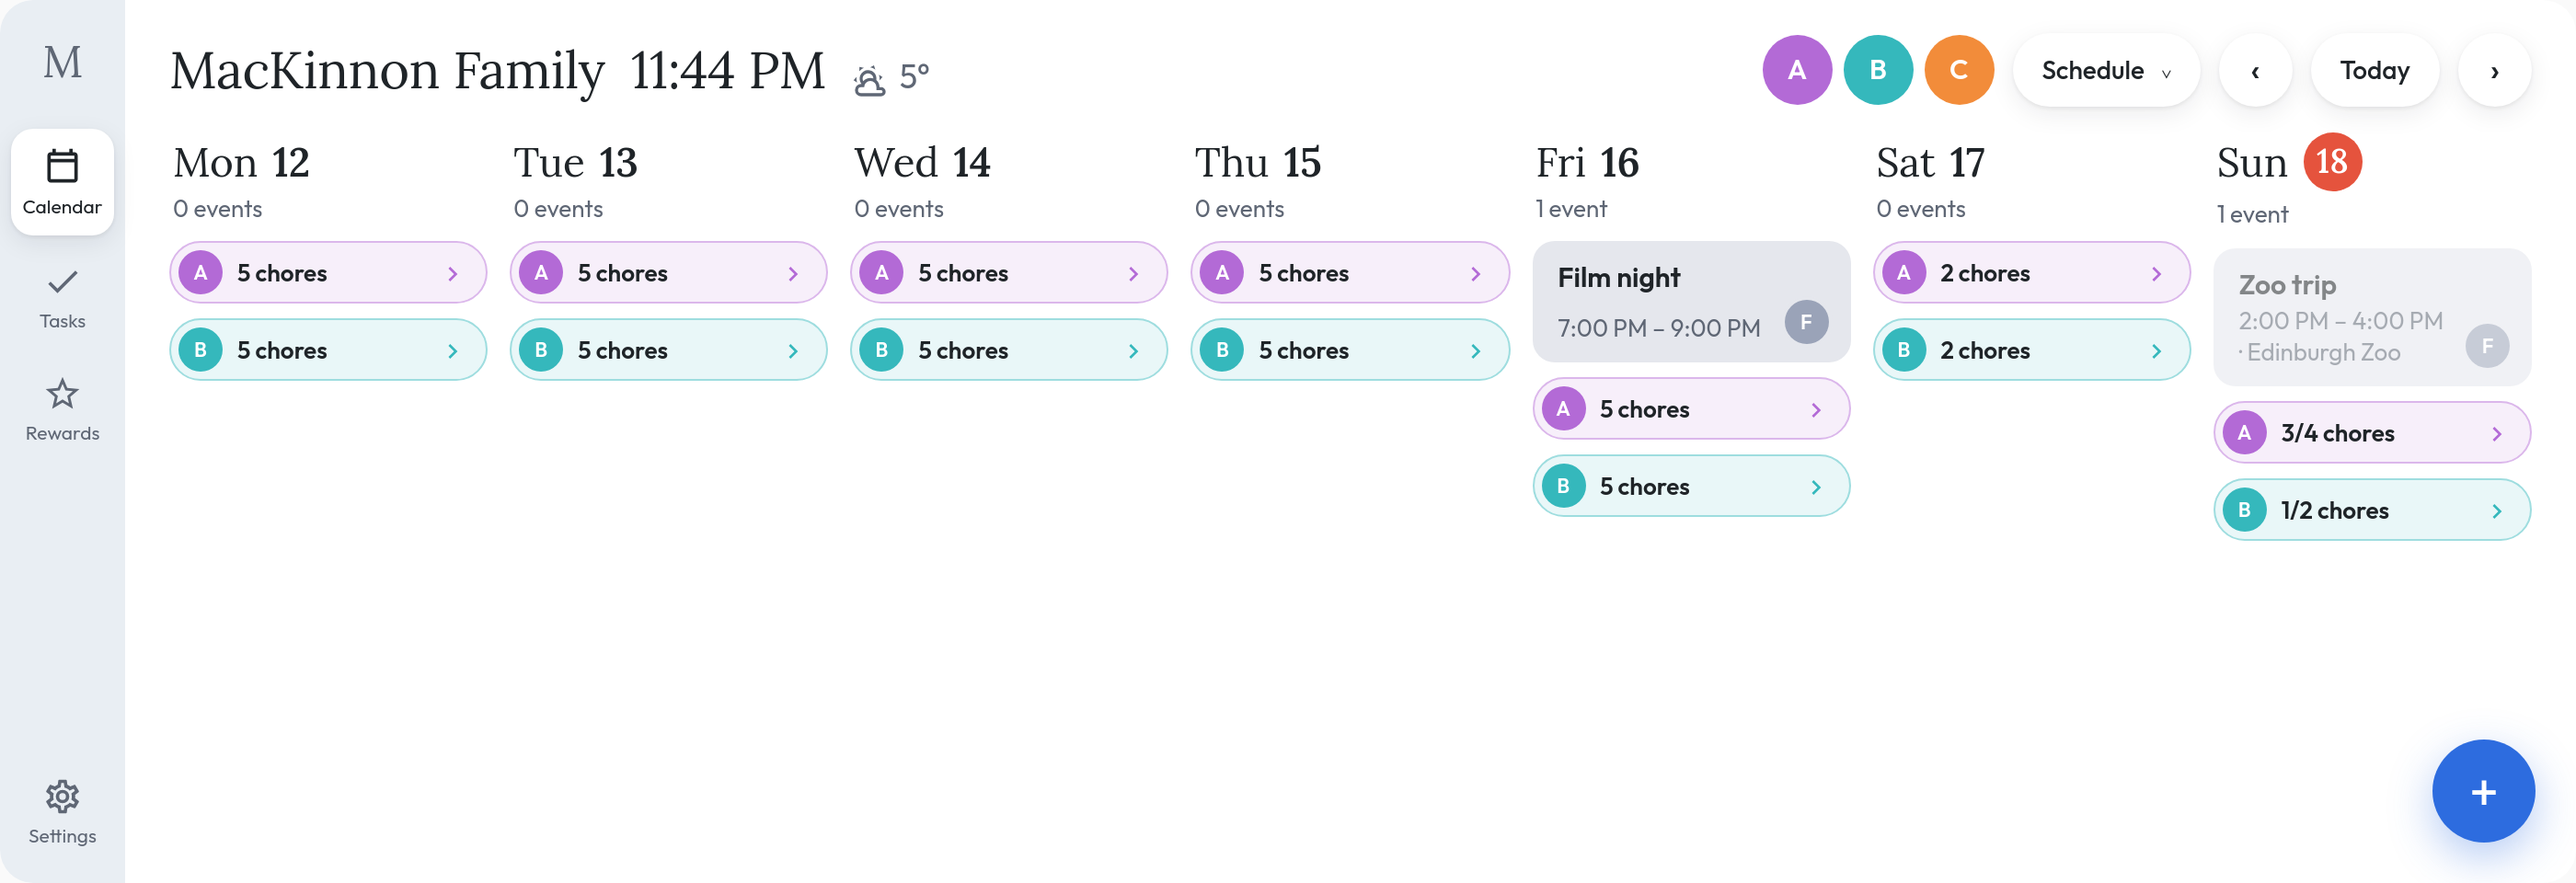
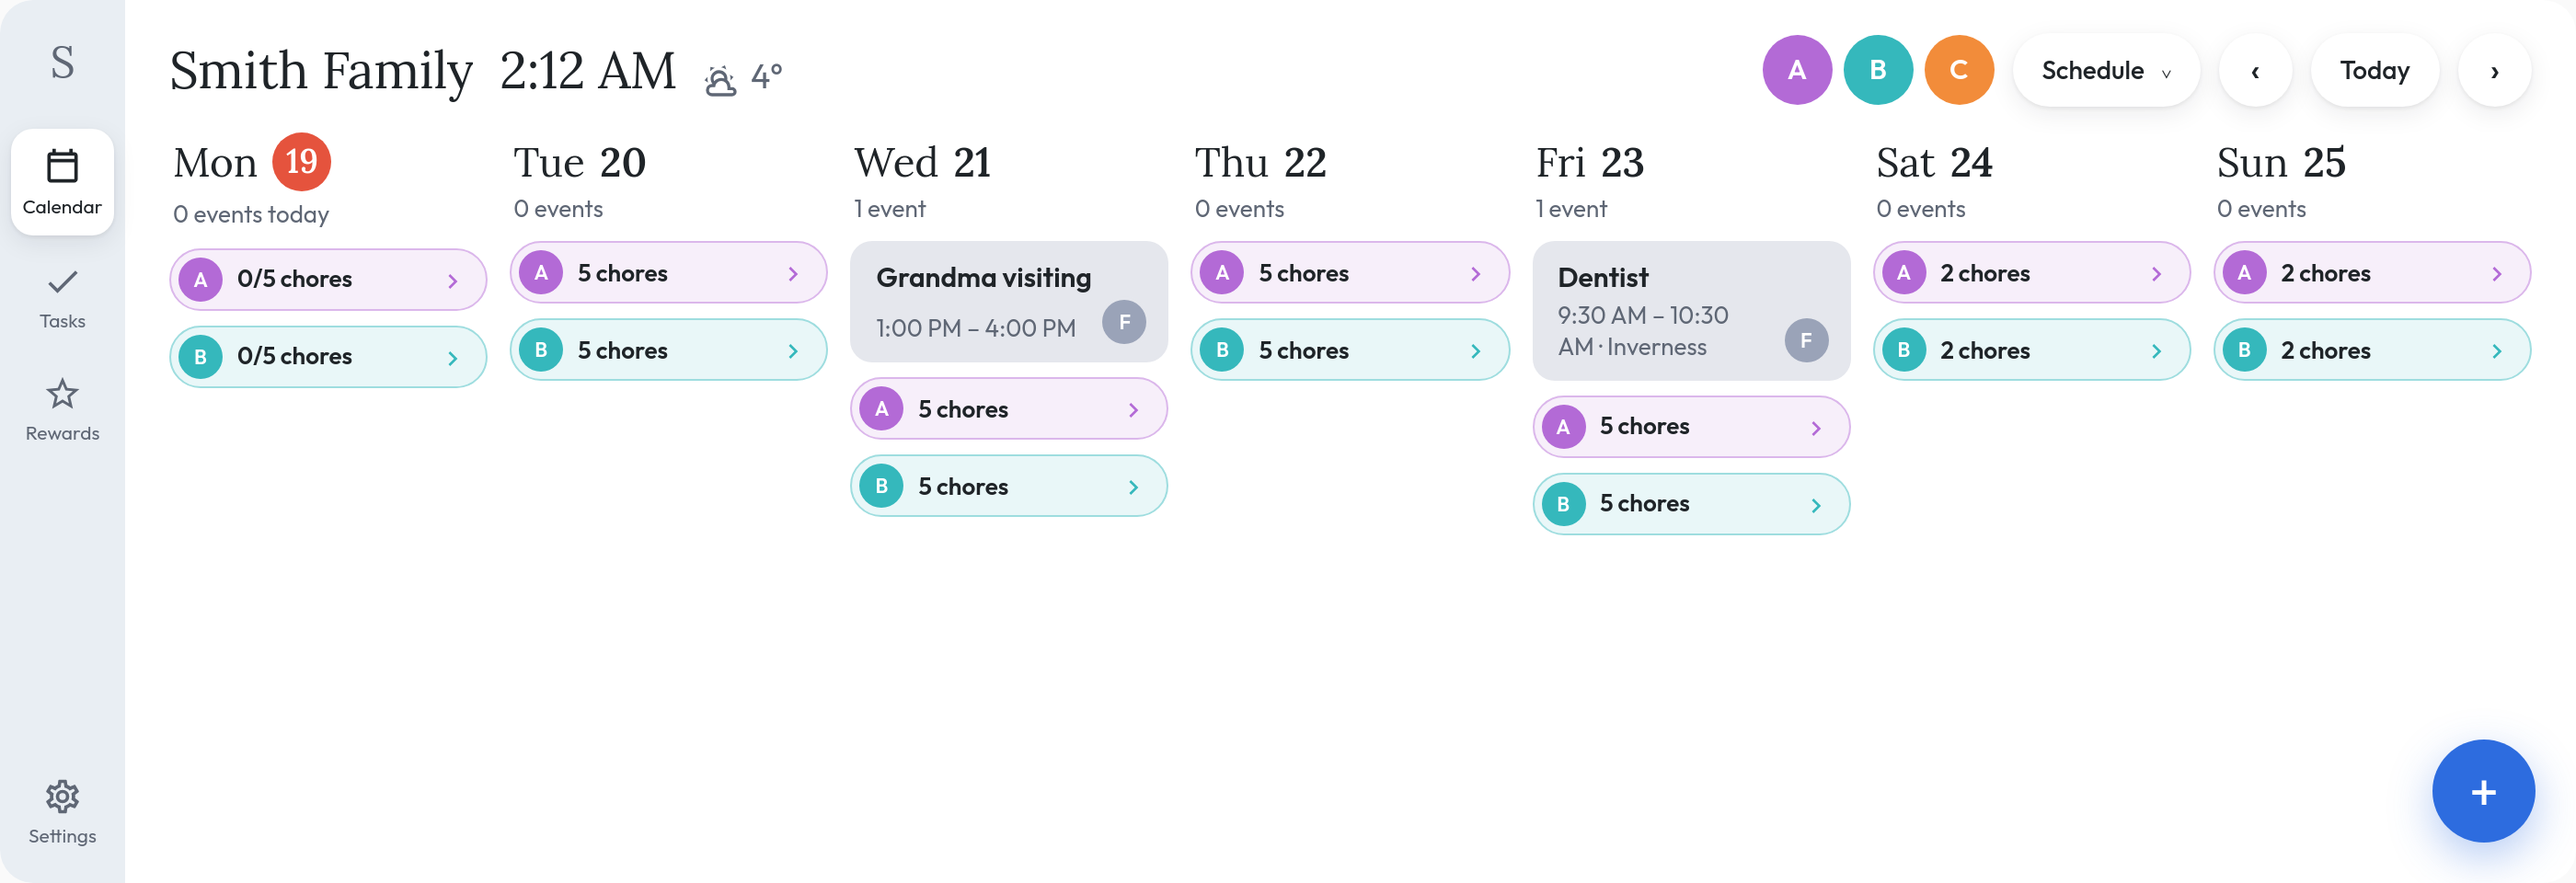
Set version to 1.0.0 and use a neutral family name in examples

diff --git a/test/config.test.js b/test/config.test.js
@@ -228,8 +228,8 @@ describe('screens and calendar views', () => {
   });
 
   it('accepts the new keys', () => {
-    const cfg = normaliseConfig({ ...base, family_name: 'MacKinnon Family', home: 'tasks', calendar_view: 'month', taskmate_rewards: 'sensor.taskmate_rewards', meals_calendar: 'calendar.meals', hide_completed: true });
-    expect(cfg).toMatchObject({ familyName: 'MacKinnon Family', home: 'tasks', calendarView: 'month', taskmateRewards: 'sensor.taskmate_rewards', mealsCalendar: 'calendar.meals', hideCompleted: true });
+    const cfg = normaliseConfig({ ...base, family_name: 'Smith Family', home: 'tasks', calendar_view: 'month', taskmate_rewards: 'sensor.taskmate_rewards', meals_calendar: 'calendar.meals', hide_completed: true });
+    expect(cfg).toMatchObject({ familyName: 'Smith Family', home: 'tasks', calendarView: 'month', taskmateRewards: 'sensor.taskmate_rewards', mealsCalendar: 'calendar.meals', hideCompleted: true });
   });
 
   it('maps the legacy view key onto a calendar view', () => {

diff --git a/test/shell-dom.test.js b/test/shell-dom.test.js
@@ -69,8 +69,8 @@ describe('rail', () => {
 
 describe('header', () => {
   it('shows the family name when set and the date otherwise', async () => {
-    let el = await mount({ ...base, family_name: 'MacKinnon Family' });
-    expect($(el, '.title').textContent).toContain('MacKinnon Family');
+    let el = await mount({ ...base, family_name: 'Smith Family' });
+    expect($(el, '.title').textContent).toContain('Smith Family');
     el = await mount(base);
     expect($(el, '.title').textContent).toMatch(/Sunday/);
   });

diff --git a/README.md b/README.md
@@ -94,7 +94,7 @@ Full instructions, including manual install: [Installation](https://github.com/t
 
 ```yaml
 type: custom:family-hub-card
-family_name: MacKinnon Family
+family_name: Smith Family
 home: calendar
 calendar_view: schedule
 theme: auto
